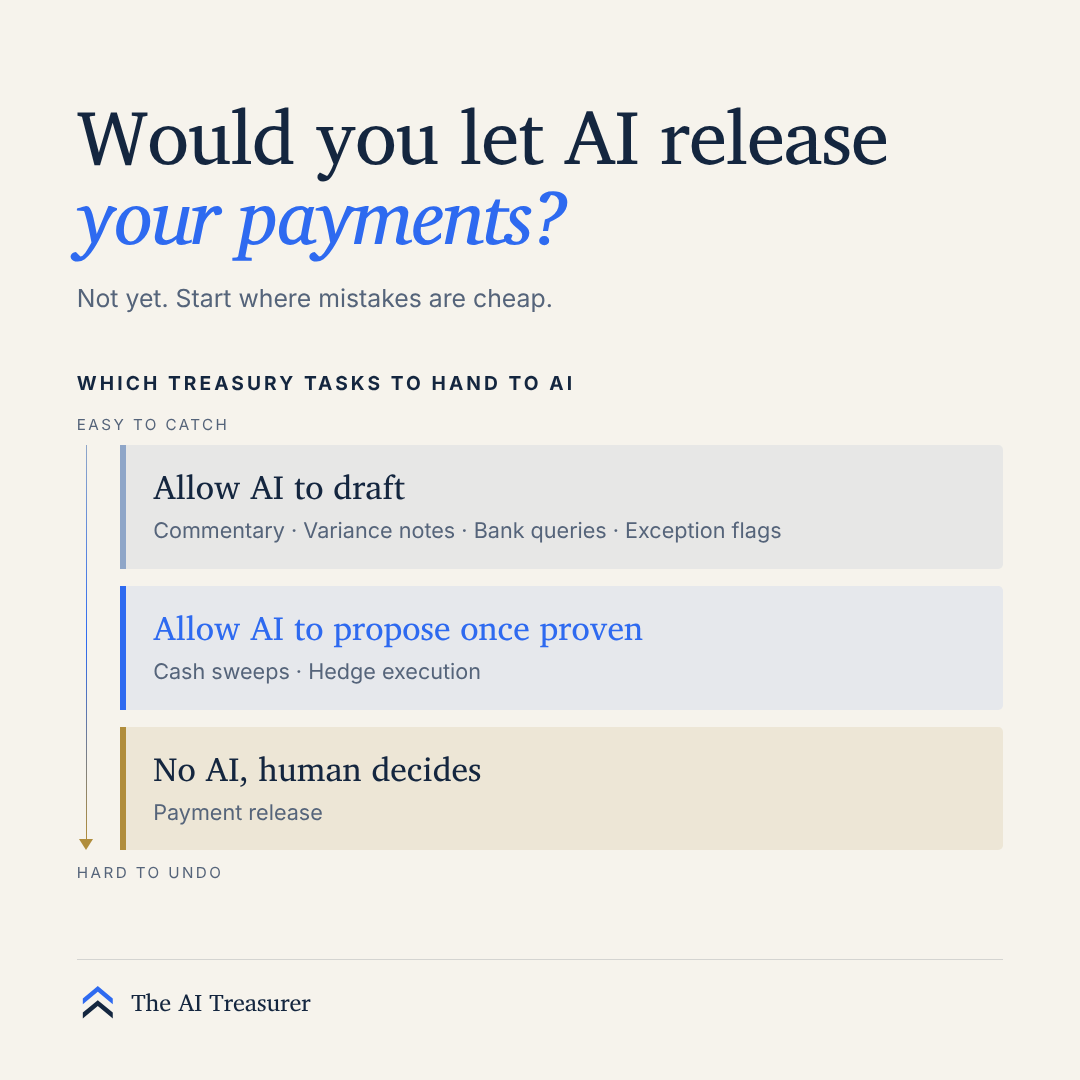
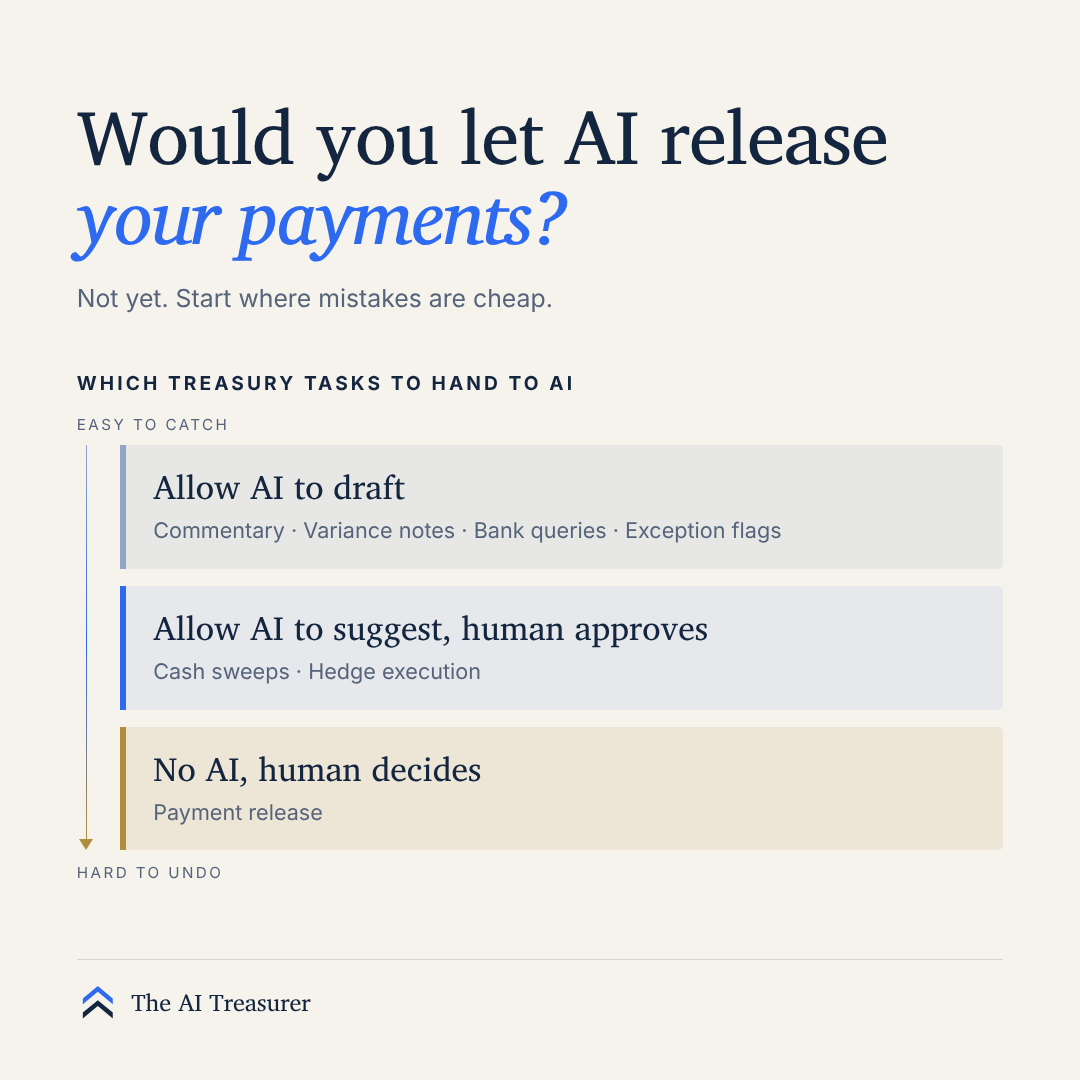
Article corrections: clearer wording, bulleted task groups, new middle tier label
- Rewrote the opening example paragraph and the link to the four questions
- Task groups as coloured bullets with short reasoning lines
- All tier headings navy; colour only in bars and bullets
- Middle tier renamed: Allow AI to suggest, human approves (article, At a glance, images)
- Heading: When to give AI more authority

Claude-Session: https://claude.ai/code/session_01JedePw4pbBaJB5BPxPMryK

Changed region(s): [[0.2444, 0.55, 0.6417, 0.6111], [0.1528, 0.55, 0.2139, 0.6111]]

diff --git a/articles/start-where-mistakes-are-cheap/index.html b/articles/start-where-mistakes-are-cheap/index.html
@@ -71,11 +71,14 @@
   .tiers .l { display: block; font-size: 16.5px; font-weight: 700; line-height: 1.3; }
   .tiers .t { display: block; font-size: 15px; line-height: 1.45; color: var(--muted); margin-top: 3px; }
   .t1 { border-color: var(--pale) !important; } .t2 { border-color: var(--blue) !important; } .t3 { border-color: var(--gold) !important; }
-  .t2 .l { color: var(--blue); }
 
   h2 { font-family: var(--serif); font-weight: 700; font-size: clamp(25px, 3.4vw, 30px); line-height: 1.2; margin: 52px 0 14px; letter-spacing: -0.005em; }
   h3 { font-family: var(--sans); font-weight: 700; font-size: 18px; line-height: 1.3; margin: 30px 0 8px; padding-left: 14px; border-left: 5px solid; }
-  h3.t2 { color: var(--blue); }
+  ul.tasks { list-style: none; margin: 0 0 14px; padding: 0 0 0 19px; }
+  ul.tasks li { position: relative; margin: 0 0 6px; padding-left: 18px; }
+  ul.tasks li::before { content: ""; position: absolute; left: 0; top: 0.62em; width: 8px; height: 8px; border-radius: 50%; background: currentColor; }
+  ul.tasks { border: 0 !important; }
+  ul.tasks.t1 li::before { background: var(--pale); } ul.tasks.t2 li::before { background: var(--blue); } ul.tasks.t3 li::before { background: var(--gold); }
   p { margin: 0 0 18px; }
   ol { margin: 0 0 18px; padding-left: 26px; }
   ol li { margin: 0 0 10px; padding-left: 4px; }
@@ -145,13 +148,13 @@
     <p class="rule">Start AI where a mistake is cheap, visible and easy to check. Make it earn anything more.</p>
     <ul class="tiers">
       <li class="t1"><span class="l">Allow AI to draft</span><span class="t">Cash commentary &middot; Variance notes &middot; Bank queries &middot; Exception flags</span></li>
-      <li class="t2"><span class="l">Allow AI to propose, once proven</span><span class="t">Cash sweeps &middot; Hedge execution</span></li>
+      <li class="t2"><span class="l">Allow AI to suggest, human approves</span><span class="t">Cash sweeps &middot; Hedge execution</span></li>
       <li class="t3"><span class="l">No AI, human decides</span><span class="t">Payment release</span></li>
     </ul>
   </section>
 
   <p>Every Treasury team is being asked to show progress on AI. The usual starting point is a list of what the technology can do. A better question: what happens when it gets something wrong?</p>
-  <p>Two mistakes can look alike on day one. An agent writes a cash commentary with a wrong number; the person reading it spots it, and it costs ten minutes. An agent releases a payment to the wrong beneficiary; nobody notices until the supplier calls, and the money may not come back. The order in which you adopt AI should follow that difference.</p>
+  <p>An AI mistake can be cheap or costly, depending on the task. If AI drafts a cash commentary with a wrong number, the reader spots it and you lose ten minutes. If AI releases a payment to the wrong supplier, nobody notices until the supplier calls, and the money may not come back. Start with tasks like the first, not the second.</p>
 
   <h2>Four questions to ask before handing a task to AI</h2>
   <ol>
@@ -162,20 +165,34 @@
   </ol>
 
   <h2>Which Treasury tasks to hand to AI</h2>
-  <p>Sorted by those questions, most Treasury tasks fall into three groups.</p>
+  <p>Apply the four questions above, and most Treasury tasks fall into three groups.</p>
 
   <h3 class="t1">Allow AI to draft</h3>
-  <p>Cash position commentary, forecast versus actual notes, drafting queries to banks, and flagging unusual items for review. In each of these, a person reads the output before anything moves, and the source data is close at hand. If it&rsquo;s wrong, you lose a few minutes.</p>
+  <ul class="tasks t1">
+    <li>Cash position commentary</li>
+    <li>Forecast versus actual notes</li>
+    <li>Queries to banks</li>
+    <li>Flags on unusual items for review</li>
+  </ul>
+  <p><em>Why it&rsquo;s safe:</em> a person reads the output before anything moves, and the source data is close at hand. If it&rsquo;s wrong, you lose a few minutes.</p>
 
-  <h3 class="t2">Allow AI to propose, once proven</h3>
-  <p>Cash sweeps and hedge execution can come later, once proposals have a track record. The AI proposes, a person approves each action, and every approval is recorded. Limits sit in the banking and payment systems, not in the AI&rsquo;s instructions, so an AI error cannot exceed them.</p>
+  <h3 class="t2">Allow AI to suggest, human approves</h3>
+  <ul class="tasks t2">
+    <li>Cash sweeps</li>
+    <li>Hedge execution</li>
+  </ul>
+  <p><em>How it works:</em> start only once the AI&rsquo;s suggestions have a track record. A person approves each action, and every approval is recorded. Limits sit in the banking and payment systems, not in the AI&rsquo;s instructions, so an AI error cannot exceed them.</p>
 
   <h3 class="t3">No AI, human decides</h3>
-  <p>Payment release, and anything else that is irreversible or time critical, stays with a person for now. Before automation comes anywhere near it, agree limits, approvals and an escalation path, and test that it can be switched off by someone who knows how.</p>
+  <ul class="tasks t3">
+    <li>Payment release</li>
+    <li>Anything irreversible or time critical</li>
+  </ul>
+  <p><em>Before automation comes near it:</em> agree limits, approvals and an escalation path, and test that someone who knows how can switch it off.</p>
 
   <p class="key">The teams that get this right won&rsquo;t be the fastest. They&rsquo;ll be the ones who can tell their auditor exactly what the AI is allowed to do.</p>
 
-  <h2>Deciding when to give it more</h2>
+  <h2>When to give AI more authority</h2>
   <p>Write down the evidence before the pilot starts, not after. Useful measures are how often reviewers change the output, how many errors are found late, and how long exceptions stay open. Set the level each must reach to justify more authority. If the numbers fall short, do not expand, and be willing to step back.</p>
 
   <div class="box">
